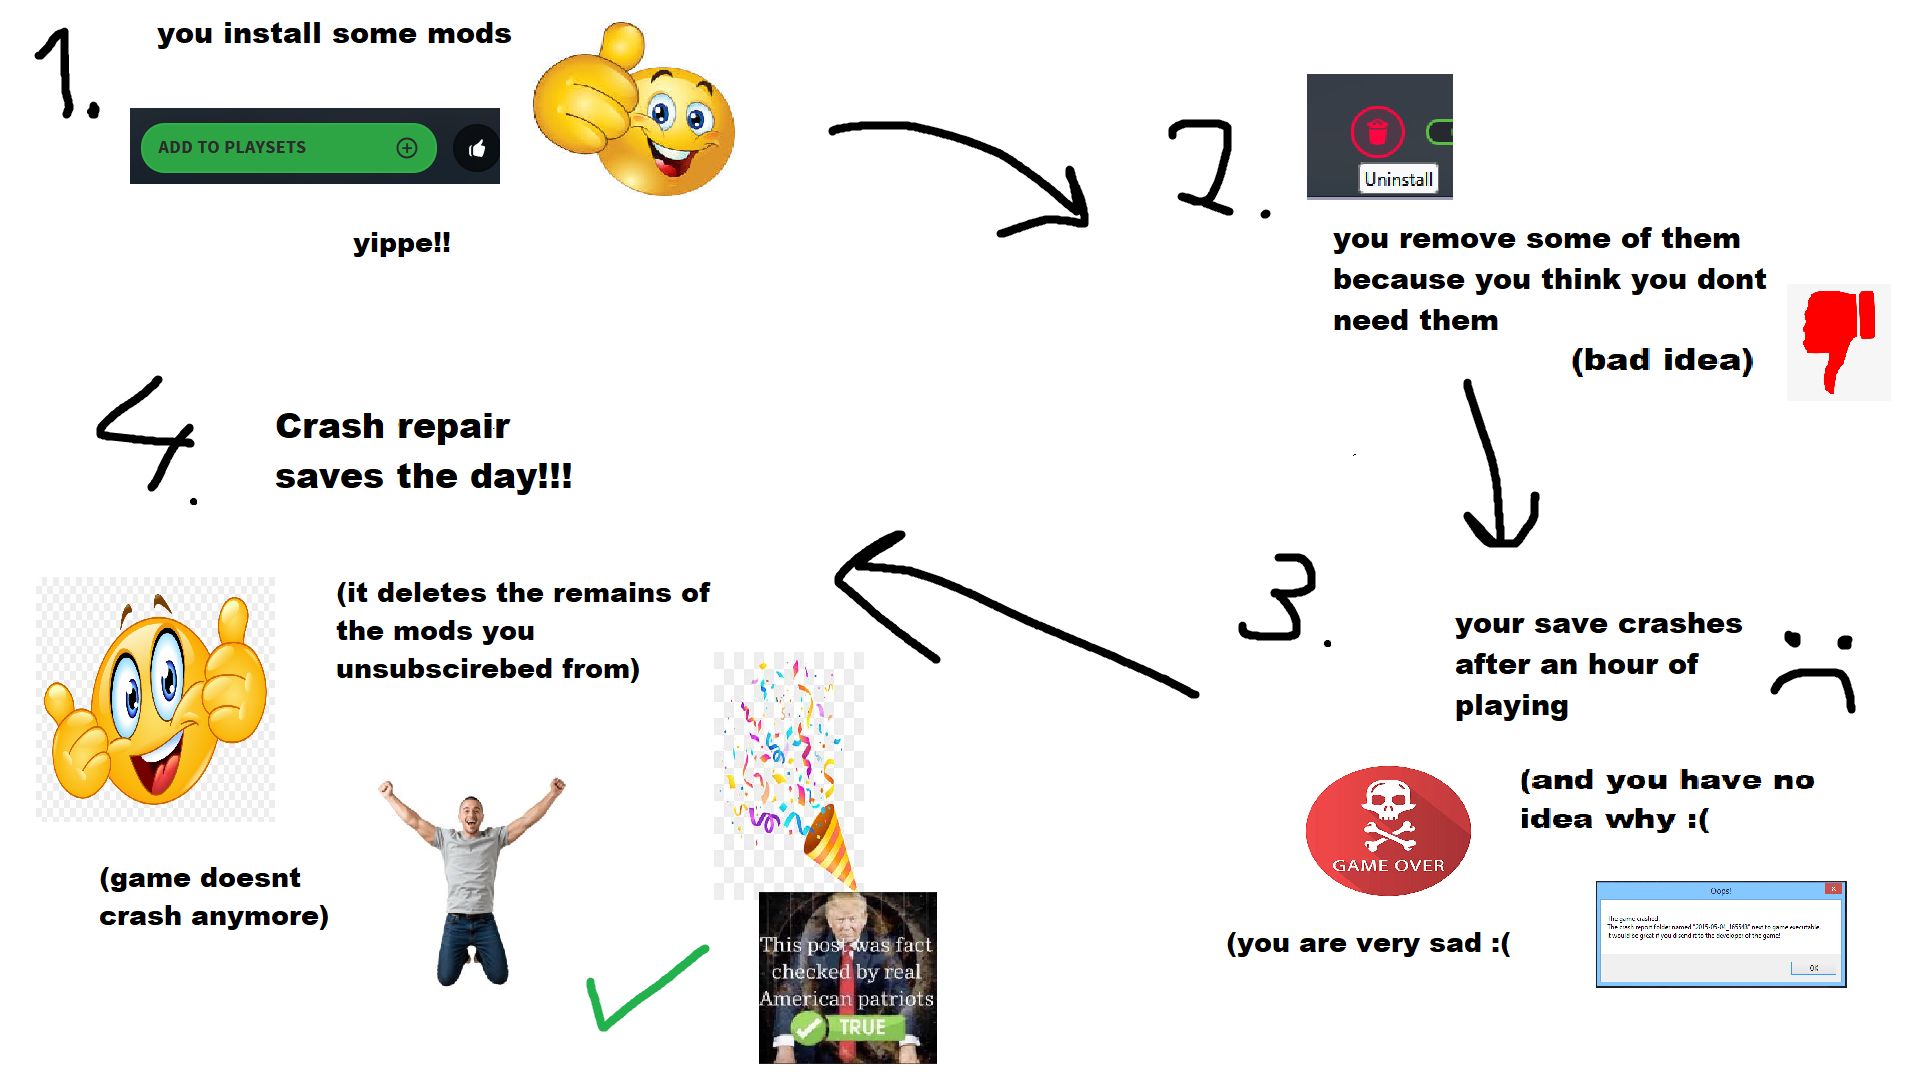
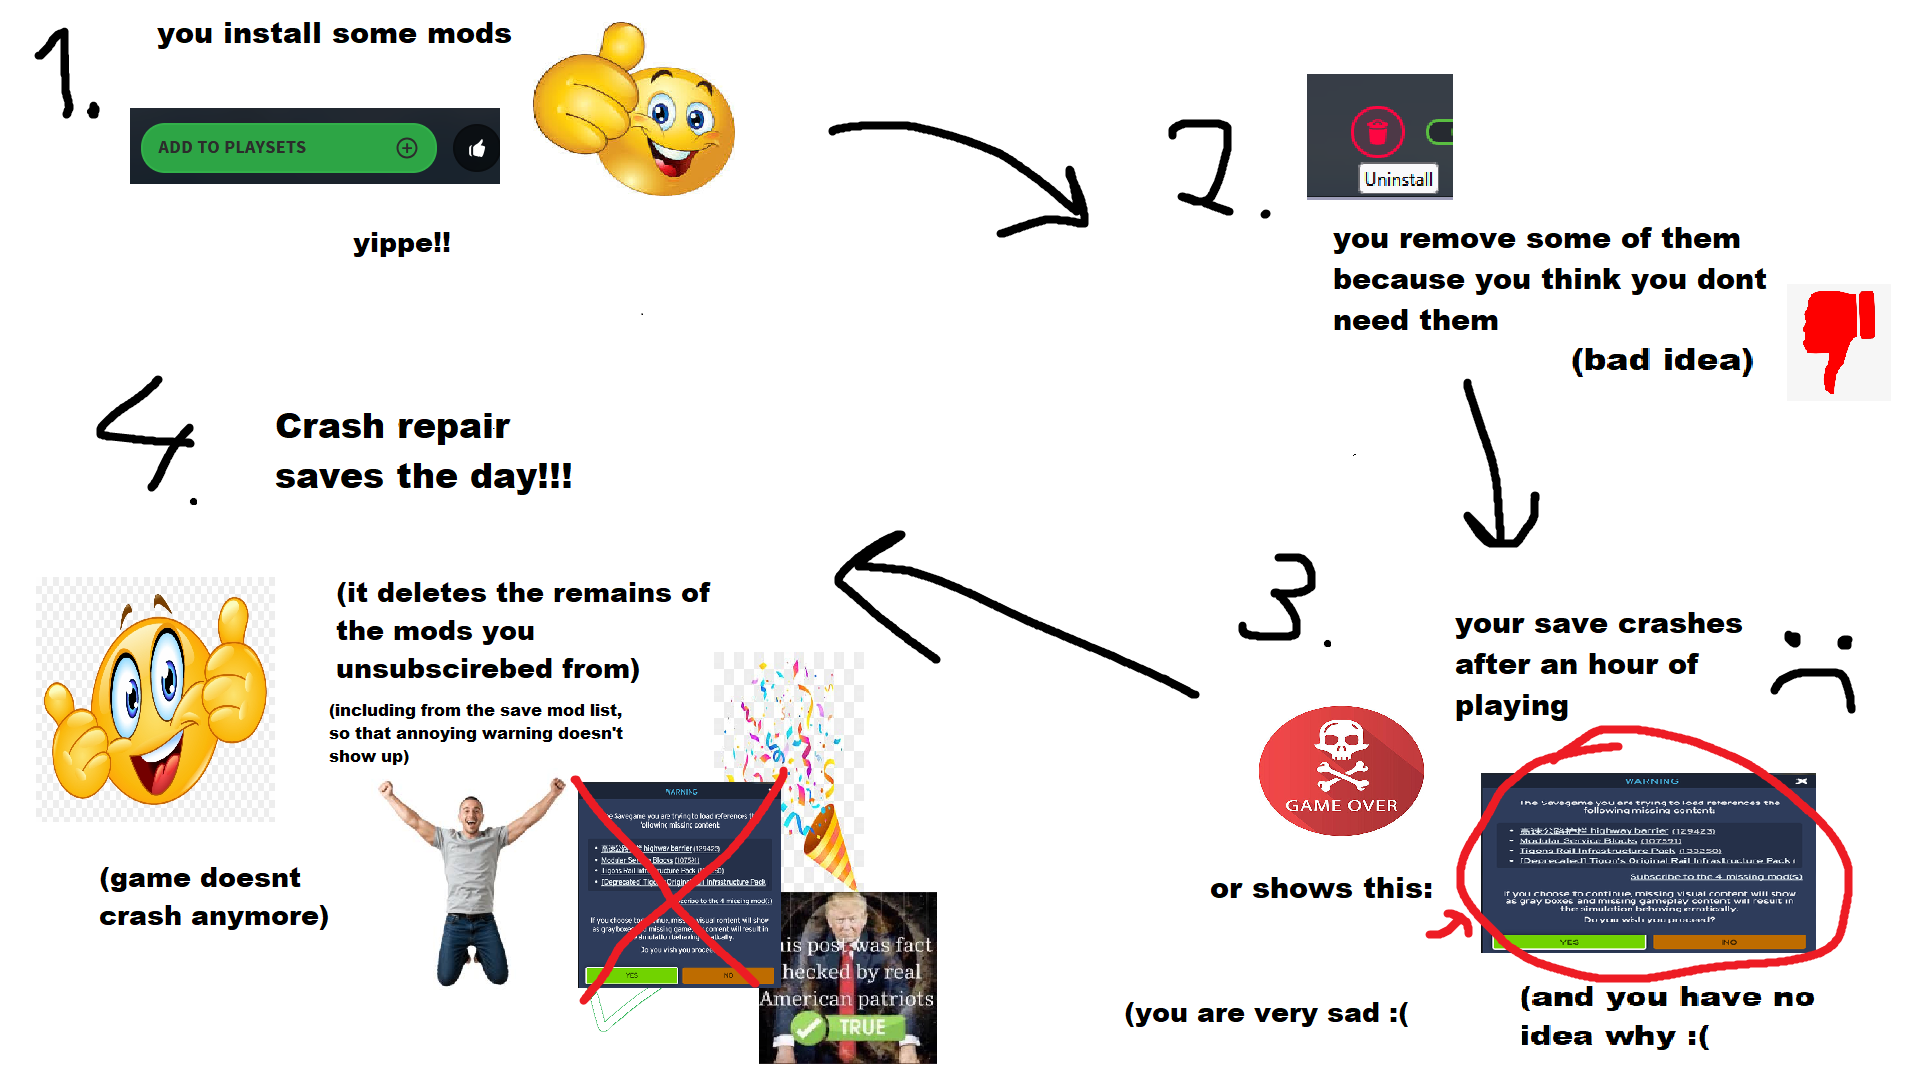
v1.1.0 Clean stale mod list in save

Changed region(s): [[0.625, 0.6417, 0.9688, 0.9778], [0.1562, 0.6417, 0.4062, 0.9472], [0.5938, 0.9167, 0.7188, 0.9472]]

diff --git a/RepairSystemBase.cs b/RepairSystemBase.cs
@@ -4,7 +4,9 @@ using System.Linq;
 using System.Text;
 using Colossal.PSI.Environment;
 using Game;
+using Game.City;
 using Game.Common;
+using Game.Modding;
 using Game.Prefabs;
 using Game.Tools;
 using Unity.Collections;
@@ -23,6 +25,9 @@ namespace CrashRepair
     /// Updated: Building/Edge + Updated makes RoadConnectionSystem re-evaluate
     /// road connections, which detaches buildings when it runs while the net
     /// search tree is still empty during loading.
+    /// Also prunes the save's "mods used" list (CityConfigurationSystem.usedMods):
+    /// vanilla only ever adds to it, so a removed mod stays listed forever and
+    /// the load menu keeps flagging the save as missing content.
     /// </summary>
     public abstract partial class RepairSystemBase : GameSystemBase
     {
@@ -33,12 +38,14 @@ namespace CrashRepair
         }
 
         private PrefabSystem m_PrefabSystem;
+        private CityConfigurationSystem m_CityConfigurationSystem;
         private EntityQuery m_PrefabRefQuery;
 
         protected override void OnCreate()
         {
             base.OnCreate();
             m_PrefabSystem = World.GetOrCreateSystemManaged<PrefabSystem>();
+            m_CityConfigurationSystem = World.GetOrCreateSystemManaged<CityConfigurationSystem>();
             // Excludes mirror vanilla PrimaryPrefabReferencesSystem: composition,
             // effect-instance and live-path entities are runtime-derived state
             // whose prefab references the game repairs through other channels —
@@ -92,7 +99,8 @@ namespace CrashRepair
                         toDelete.Add(entities[i]);
                 }
 
-                Report(entities.Length, missing, deleteBroken && missing.Count > 0);
+                Mod.lastScanResult = Report(entities.Length, missing, deleteBroken && missing.Count > 0)
+                    + CleanModList(deleteBroken);
                 if (toDelete.Length > 0)
                     EntityManager.AddComponent<Deleted>(toDelete.AsArray());
             }
@@ -104,18 +112,44 @@ namespace CrashRepair
             }
         }
 
-        private void Report(int scanned, Dictionary<Entity, MissingGroup> missing, bool deleting)
+        /// <summary>
+        /// Finds entries of the save's mod list that no loaded mod matches and
+        /// removes them when repairing. Returns a status suffix for the UI.
+        /// </summary>
+        private string CleanModList(bool remove)
+        {
+            // An empty list can only mean the mod manager is not fully up (this
+            // mod itself is always in it) — never prune against that.
+            string[] enabled = ModManager.GetModsEnabled();
+            if (enabled == null || enabled.Length == 0)
+                return string.Empty;
+
+            var stale = m_CityConfigurationSystem.usedMods.Except(enabled).ToArray();
+            if (stale.Length == 0)
+                return string.Empty;
+
+            // Entries are assembly full names (with version), so every mod update
+            // leaves an outdated entry behind — most of these are old versions of
+            // mods that are still installed, not missing mods.
+            Mod.log.Warn($"Save's mod list has {stale.Length} stale entries ({(remove ? "removed" : "kept")}): {string.Join(" | ", stale)}");
+            if (remove)
+                m_CityConfigurationSystem.usedMods.ExceptWith(stale);
+            return remove
+                ? $" Removed {stale.Length} stale entries (missing or outdated mods) from the save's mod list."
+                : $" The save's mod list has {stale.Length} stale entries (missing or outdated mods).";
+        }
+
+        /// <summary>Logs the scan outcome, writes the CSV; returns the status line for the UI.</summary>
+        private string Report(int scanned, Dictionary<Entity, MissingGroup> missing, bool deleting)
         {
             if (missing.Count == 0)
             {
-                Mod.lastScanResult = $"{scanned:N0} objects checked — no broken objects found.";
                 Mod.log.Info($"Scan done: {scanned} instances checked, no missing prefabs. Save is clean.");
-                return;
+                return $"{scanned:N0} objects checked — no broken objects found.";
             }
 
             int total = missing.Values.Sum(g => g.m_Count);
             string action = deleting ? "deleted" : "found (not deleted)";
-            Mod.lastScanResult = $"{scanned:N0} objects checked — {total:N0} broken objects ({missing.Count} missing assets) {action}.";
             Mod.log.Warn($"Scan done: {scanned} instances checked, {total} instances reference {missing.Count} missing prefabs ({action}):");
 
             var csv = new StringBuilder();
@@ -140,6 +174,7 @@ namespace CrashRepair
             {
                 Mod.log.Warn($"Failed to write CSV report: {e.Message}");
             }
+            return $"{scanned:N0} objects checked — {total:N0} broken objects ({missing.Count} missing assets) {action}.";
         }
 
         private string DescribePrefab(Entity prefab)

diff --git a/LocaleEN.cs b/LocaleEN.cs
@@ -21,10 +21,10 @@ namespace CrashRepair
                 { m_Setting.GetOptionGroupLocaleID(Setting.kRepairGroup), "Savegame repair" },
 
                 { m_Setting.GetOptionLabelLocaleID(nameof(Setting.ScanStatus)), "Last scan result" },
-                { m_Setting.GetOptionDescLocaleID(nameof(Setting.ScanStatus)), "Every time a savegame is loaded, the mod scans it for objects that belong to mods or assets that are no longer installed. Such orphaned objects are a common cause of crashes. A detailed list is written to ModsData/CrashRepair/missing_prefabs_report.csv." },
+                { m_Setting.GetOptionDescLocaleID(nameof(Setting.ScanStatus)), "Every time a savegame is loaded, the mod scans it for objects that belong to mods or assets that are no longer installed. Such orphaned objects are a common cause of crashes. It also checks the list of mods stored in the savegame for stale entries — mods that no longer exist or old versions of mods you still have (the reason the load menu keeps showing a warning). A detailed list is written to ModsData/CrashRepair/missing_prefabs_report.csv." },
 
                 { m_Setting.GetOptionLabelLocaleID(nameof(Setting.RepairNow)), "Repair now" },
-                { m_Setting.GetOptionDescLocaleID(nameof(Setting.RepairNow)), "Deletes every object in the current city that references a missing mod or asset (removed cars, props, surfaces, road markings, …). Afterwards, save your city under a NEW name and keep the original file as a backup. Note: the deleted objects will not come back if you re-subscribe the missing mod later." },
+                { m_Setting.GetOptionDescLocaleID(nameof(Setting.RepairNow)), "Deletes every object in the current city that references a missing mod or asset (removed cars, props, surfaces, road markings, …) and removes stale entries (missing mods and old versions of mods) from the list stored in the savegame, so the load menu stops warning about them. Afterwards, save your city under a NEW name and keep the original file as a backup. Note: the deleted objects will not come back if you re-subscribe the missing mod later." },
                 { m_Setting.GetOptionWarningLocaleID(nameof(Setting.RepairNow)), "This permanently deletes all objects whose source mod or asset is missing — they will not come back even if you re-subscribe that mod later. Keep your original savegame as a backup and save the repaired city under a new name. Continue?" },
 
                 { m_Setting.GetOptionLabelLocaleID(nameof(Setting.AutoRepairOnLoad)), "Repair automatically on load" },

diff --git a/README.md b/README.md
@@ -23,6 +23,10 @@ That's it. My city that kept crashing within an hour ran for hours afterwards wi
 There is also a **"Repair automatically on load"** toggle (off by default). With it on,
 you can safely remove mods and assets without worrying about your save getting corrupted.
 
+The repair also cleans the list of mods stored in the save — missing mods and old versions
+of mods you still have (the game never removes those) — so the load menu stops showing the
+orange "missing content" warning.
+
 A detailed list of everything found is written to
 `ModsData/CrashRepair/missing_prefabs_report.csv` and `Logs/CrashRepair.log`.
 
@@ -43,6 +47,12 @@ building sub-areas, notification icons) are cleaned up by the same vanilla syste
 handle bulldozing. Runtime entities whose references the game repairs through other
 channels (`NetCompositionData`, `EffectInstance`, `LivePath`) are excluded from the
 scan, mirroring the game's own `PrimaryPrefabReferencesSystem`.
+
+The orange warning in the load menu comes from a different place: `CityConfigurationSystem`
+keeps a `usedMods` set that is loaded from the save and then extended with the currently
+active mods — it is never pruned. Entries are assembly full names including the version,
+so every mod update leaves an outdated entry behind and a removed mod stays listed forever.
+The repair drops every entry that no loaded mod matches; the next save writes the clean list.
 
 ## Removal
 

diff --git a/ChangeLog.md b/ChangeLog.md
@@ -1,5 +1,10 @@
 # ChangeLog
 
+## v1.1.0
+- Repair also cleans the list of mods stored in the save (missing mods and old versions
+  of mods), so the load menu stops showing the missing content warning.
+- Scan result now reports how many such stale entries the save has.
+
 ## v1.0.0
 - Initial release.
 - Scan on every save load, report in options + CSV.
